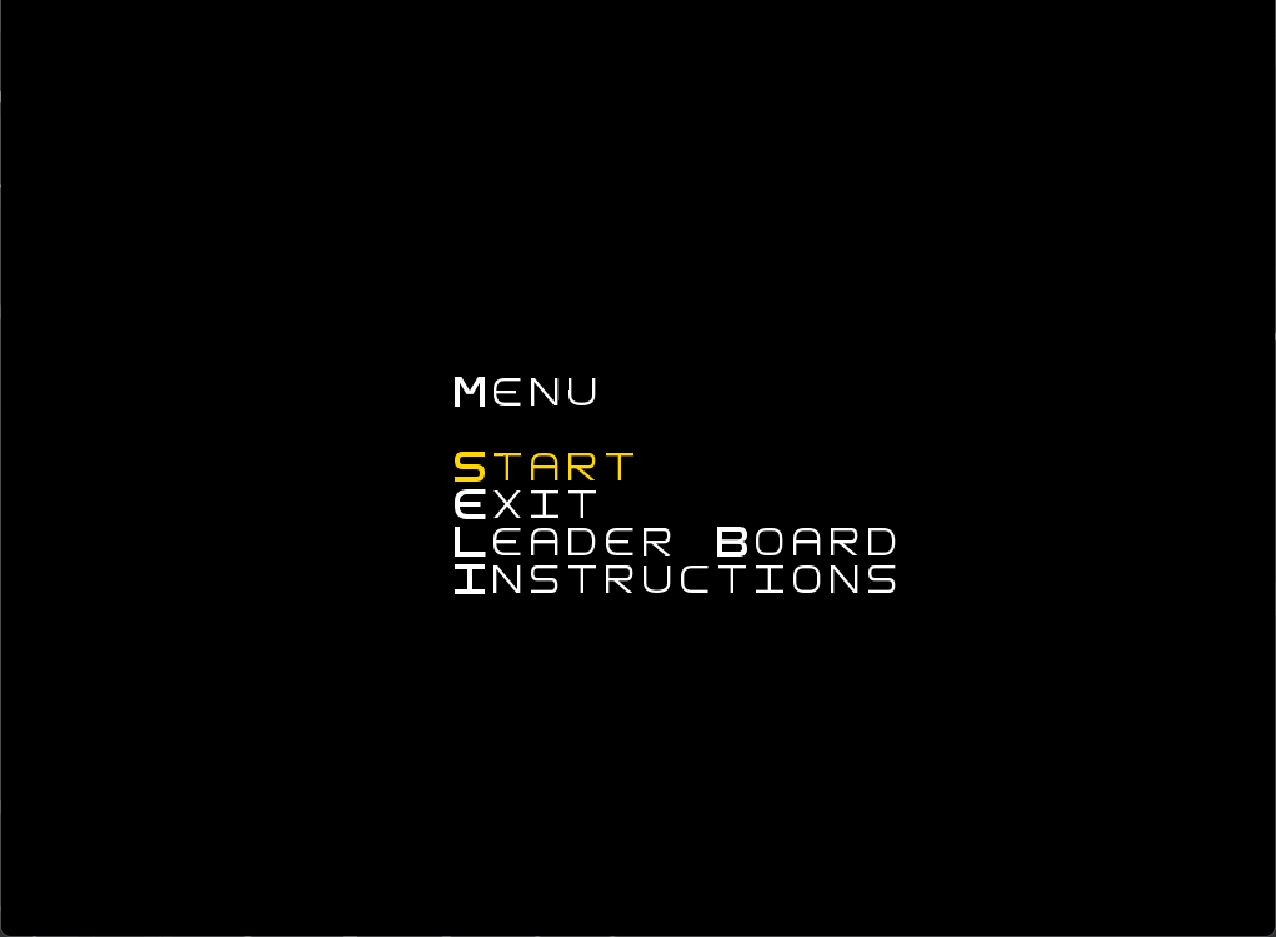
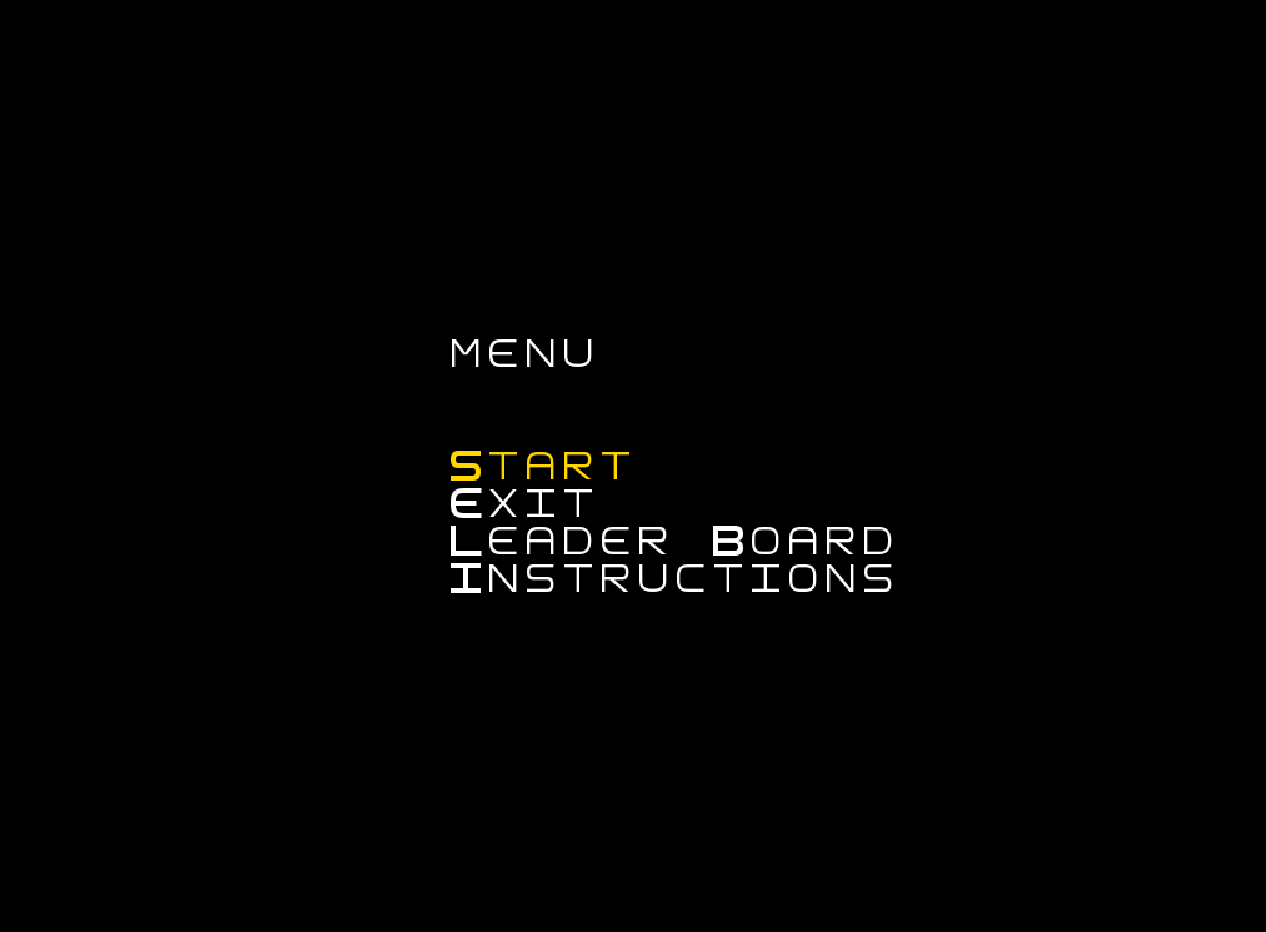
Improved Viewers and updated report and description

Changed region(s): [[0.3389, 0.4667, 0.7085, 0.6534], [0.0, 0.9957, 1.0, 1.0], [0.3389, 0.3423, 0.4929, 0.4356]]

diff --git a/src/main/java/com/RafaelNTeixeira/projeto/viewer/PauseViewer.java b/src/main/java/com/RafaelNTeixeira/projeto/viewer/PauseViewer.java
@@ -11,11 +11,11 @@ public class PauseViewer extends Viewer<Pause> {
 
     @Override
     public void drawElements(GUI gui) {
-        gui.drawText(new Position(12, 12), "pause", "#FFFFFF");
+        gui.drawText(new Position(12, 8), "pause", "#FFFFFF");
 
         for (int i = 0; i < getModel().getNumberEntries(); i++)
             gui.drawText(
-                    new Position(12, 14 + i),
+                    new Position(12, 12 + i),
                     getModel().getEntry(i),
                     getModel().isSelected(i) ? "#FFD700" : "#FFFFFF");
     }

diff --git a/src/main/java/com/RafaelNTeixeira/projeto/viewer/MenuViewer.java b/src/main/java/com/RafaelNTeixeira/projeto/viewer/MenuViewer.java
@@ -11,7 +11,7 @@ public class MenuViewer extends Viewer<Menu> {
 
     @Override
     public void drawElements(GUI gui) {
-        gui.drawText(new Position(12, 10), "menu", "#FFFFFF");
+        gui.drawText(new Position(12, 9), "menu", "#FFFFFF");
 
         for (int i = 0; i < getModel().getNumberEntries(); i++)
             gui.drawText(

diff --git a/README.md b/README.md
@@ -6,6 +6,7 @@
 > A cada eliminação, será atribuída uma pontuação que será incrementada à pontuação total do jogador e quando este é eliminado, terá a chance de entrar numa LeaderBoard.
 > 
 &nbsp;
+
 ### COMPOSIÇÃO DO GRUPO:
 > 
 > **Este projeto foi desenvolvido pelos elementos:**
@@ -14,6 +15,7 @@
 > - > Rafael Teixeira (up202108831@up.pt)
 > 
 &nbsp;
+
 ## FEATURES IMPLEMENTADAS
 > 
 > **Conseguimos implementar:**
@@ -30,7 +32,7 @@
 > - > Instruções - Ao entrar no Menu, o jogador tem a hipótese de verificar os comandos do jogo
 > 
 &nbsp;
-&nbsp;
+
 ## CHARACTERS 
 > <pre>       HERO                          KING                      MONSTER       </pre>       
 >
@@ -39,23 +41,24 @@
 > ![img](https://github.com/FEUP-LDTS-2022/project-l12gr05/blob/master/docs/Screenshots/Characters/MONSTER.png)
 > 
 &nbsp;
-## GAME 
-> <pre>                                                MENU                                 </pre>      
-> &nbsp;&nbsp;&nbsp;&nbsp;&nbsp;&nbsp;&nbsp;&nbsp;&nbsp;&nbsp;&nbsp;&nbsp;&nbsp;&nbsp;&nbsp;&nbsp;&nbsp;&nbsp; ![img](https://github.com/FEUP-LDTS-2022/project-l12gr05/blob/master/docs/Screenshots/Menu.png)
-> <pre>                                              PAUSE MENU                             </pre>      
-> &nbsp;&nbsp;&nbsp;&nbsp;&nbsp;&nbsp;&nbsp;&nbsp;&nbsp;&nbsp;&nbsp;&nbsp;&nbsp;&nbsp;&nbsp;&nbsp;&nbsp;&nbsp; ![img](https://github.com/FEUP-LDTS-2022/project-l12gr05/blob/master/docs/Screenshots/Pause.png)
-> <pre>                                              LEADERBOARD                            </pre>      
-> &nbsp;&nbsp;&nbsp;&nbsp;&nbsp;&nbsp;&nbsp;&nbsp;&nbsp;&nbsp;&nbsp;&nbsp;&nbsp;&nbsp;&nbsp;&nbsp;&nbsp;&nbsp; ![img](https://github.com/FEUP-LDTS-2022/project-l12gr05/blob/master/docs/Screenshots/Leaderboard.png)
-> <pre>                                              INSTRUCTIONS                           </pre>      
-> &nbsp;&nbsp;&nbsp;&nbsp;&nbsp;&nbsp;&nbsp;&nbsp;&nbsp;&nbsp;&nbsp;&nbsp;&nbsp;&nbsp;&nbsp;&nbsp;&nbsp;&nbsp; ![img](https://github.com/FEUP-LDTS-2022/project-l12gr05/blob/master/docs/Screenshots/Instructions.png)
-> 
+
+# GAME
+> <pre>                                                           MENU                                                              </pre>      
+> &nbsp;&nbsp;&nbsp;&nbsp;&nbsp;&nbsp;&nbsp;&nbsp;&nbsp;&nbsp;&nbsp;&nbsp;&nbsp;&nbsp;&nbsp;&nbsp;&nbsp;&nbsp; ![img](https://github.com/FEUP-LDTS-2022/project-l12gr05/blob/f9f76b0b3150cddd306c023bdc599f1e5d6f31b4/docs/Screenshots/Menu.png)
+> <pre>                                                          PAUSE MENU                                                        </pre>      
+> &nbsp;&nbsp;&nbsp;&nbsp;&nbsp;&nbsp;&nbsp;&nbsp;&nbsp;&nbsp;&nbsp;&nbsp;&nbsp;&nbsp;&nbsp;&nbsp;&nbsp;&nbsp; ![img](https://github.com/FEUP-LDTS-2022/project-l12gr05/blob/master/docs/Screenshots/PauseMenu.png)
+> <pre>                                                          LEADERBOARD                                                        </pre>      
+> &nbsp;&nbsp;&nbsp;&nbsp;&nbsp;&nbsp;&nbsp;&nbsp;&nbsp;&nbsp;&nbsp;&nbsp;&nbsp;&nbsp;&nbsp;&nbsp;&nbsp;&nbsp; ![img](https://github.com/FEUP-LDTS-2022/project-l12gr05/blob/f9f76b0b3150cddd306c023bdc599f1e5d6f31b4/docs/Screenshots/LeaderBoard.png)
+> <pre>                                                         INSTRUCTIONS                                                        </pre>      
+> &nbsp;&nbsp;&nbsp;&nbsp;&nbsp;&nbsp;&nbsp;&nbsp;&nbsp;&nbsp;&nbsp;&nbsp;&nbsp;&nbsp;&nbsp;&nbsp;&nbsp;&nbsp; ![img](https://github.com/FEUP-LDTS-2022/project-l12gr05/blob/f9f76b0b3150cddd306c023bdc599f1e5d6f31b4/docs/Screenshots/Instructions.png)
+>
 &nbsp;
-&nbsp;
+
 ## UML DIAGRAM
 _(Colocar UML aqui)_ </br>
 ___
 &nbsp;
-&nbsp;
+
 ## CODE COVERAGE
 ![img](https://github.com/FEUP-LDTS-2022/project-l12gr05/blob/master/docs/Screenshots/Code%20Coverage.png) </br>
 ___

diff --git a/docs/README.md b/docs/README.md
@@ -59,13 +59,13 @@
 
 ## GAME 
 > <pre>                                                           MENU                                                              </pre>      
-> &nbsp;&nbsp;&nbsp;&nbsp;&nbsp;&nbsp;&nbsp;&nbsp;&nbsp;&nbsp;&nbsp;&nbsp;&nbsp;&nbsp;&nbsp;&nbsp;&nbsp;&nbsp; ![img](https://github.com/FEUP-LDTS-2022/project-l12gr05/blob/master/docs/Screenshots/Menu.png)
+> &nbsp;&nbsp;&nbsp;&nbsp;&nbsp;&nbsp;&nbsp;&nbsp;&nbsp;&nbsp;&nbsp;&nbsp;&nbsp;&nbsp;&nbsp;&nbsp;&nbsp;&nbsp; ![img](https://github.com/FEUP-LDTS-2022/project-l12gr05/blob/f9f76b0b3150cddd306c023bdc599f1e5d6f31b4/docs/Screenshots/Menu.png)
 > <pre>                                                          PAUSE MENU                                                        </pre>      
-> &nbsp;&nbsp;&nbsp;&nbsp;&nbsp;&nbsp;&nbsp;&nbsp;&nbsp;&nbsp;&nbsp;&nbsp;&nbsp;&nbsp;&nbsp;&nbsp;&nbsp;&nbsp; ![img](https://github.com/FEUP-LDTS-2022/project-l12gr05/blob/master/docs/Screenshots/Pause.png)
+> &nbsp;&nbsp;&nbsp;&nbsp;&nbsp;&nbsp;&nbsp;&nbsp;&nbsp;&nbsp;&nbsp;&nbsp;&nbsp;&nbsp;&nbsp;&nbsp;&nbsp;&nbsp; ![img](https://github.com/FEUP-LDTS-2022/project-l12gr05/blob/master/docs/Screenshots/PauseMenu.png)
 > <pre>                                                          LEADERBOARD                                                        </pre>      
-> &nbsp;&nbsp;&nbsp;&nbsp;&nbsp;&nbsp;&nbsp;&nbsp;&nbsp;&nbsp;&nbsp;&nbsp;&nbsp;&nbsp;&nbsp;&nbsp;&nbsp;&nbsp; ![img](https://github.com/FEUP-LDTS-2022/project-l12gr05/blob/master/docs/Screenshots/Leaderboard.png)
+> &nbsp;&nbsp;&nbsp;&nbsp;&nbsp;&nbsp;&nbsp;&nbsp;&nbsp;&nbsp;&nbsp;&nbsp;&nbsp;&nbsp;&nbsp;&nbsp;&nbsp;&nbsp; ![img](https://github.com/FEUP-LDTS-2022/project-l12gr05/blob/f9f76b0b3150cddd306c023bdc599f1e5d6f31b4/docs/Screenshots/LeaderBoard.png)
 > <pre>                                                         INSTRUCTIONS                                                        </pre>      
-> &nbsp;&nbsp;&nbsp;&nbsp;&nbsp;&nbsp;&nbsp;&nbsp;&nbsp;&nbsp;&nbsp;&nbsp;&nbsp;&nbsp;&nbsp;&nbsp;&nbsp;&nbsp; ![img](https://github.com/FEUP-LDTS-2022/project-l12gr05/blob/master/docs/Screenshots/Instructions.png)
+> &nbsp;&nbsp;&nbsp;&nbsp;&nbsp;&nbsp;&nbsp;&nbsp;&nbsp;&nbsp;&nbsp;&nbsp;&nbsp;&nbsp;&nbsp;&nbsp;&nbsp;&nbsp; ![img](https://github.com/FEUP-LDTS-2022/project-l12gr05/blob/f9f76b0b3150cddd306c023bdc599f1e5d6f31b4/docs/Screenshots/Instructions.png)
 > 
 &nbsp;
 
@@ -125,7 +125,7 @@ _(Colocar UML aqui)_ </br>
 &nbsp;
 
 ### TESTING
-![img](https://github.com/FEUP-LDTS-2022/project-l12gr05/blob/master/docs/Screenshots/Code%20Coverage.png) </br>
+![img](https://github.com/FEUP-LDTS-2022/project-l12gr05/blob/f9f76b0b3150cddd306c023bdc599f1e5d6f31b4/docs/Screenshots/CodeCoverage.png) </br>
 ___
 _(Link to mutation testing report.)_
 ___
